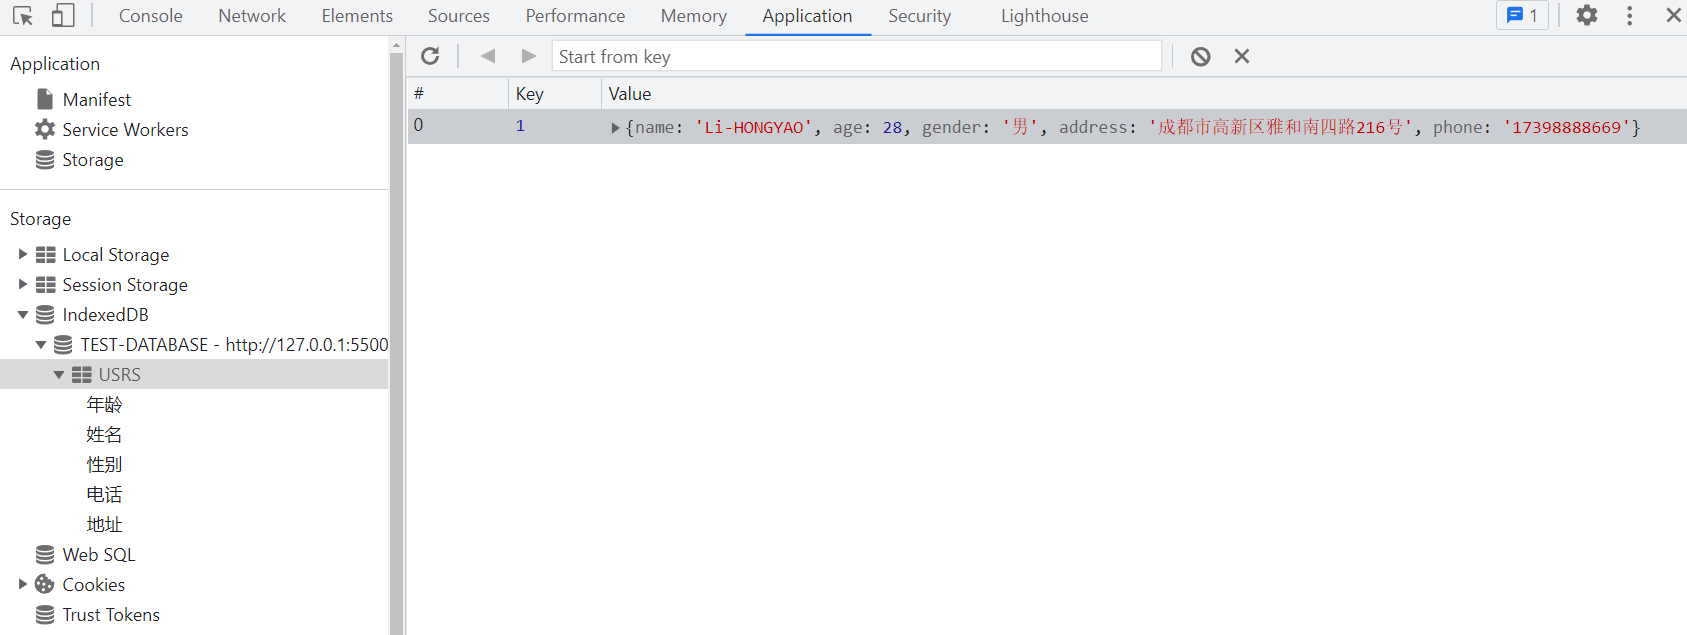
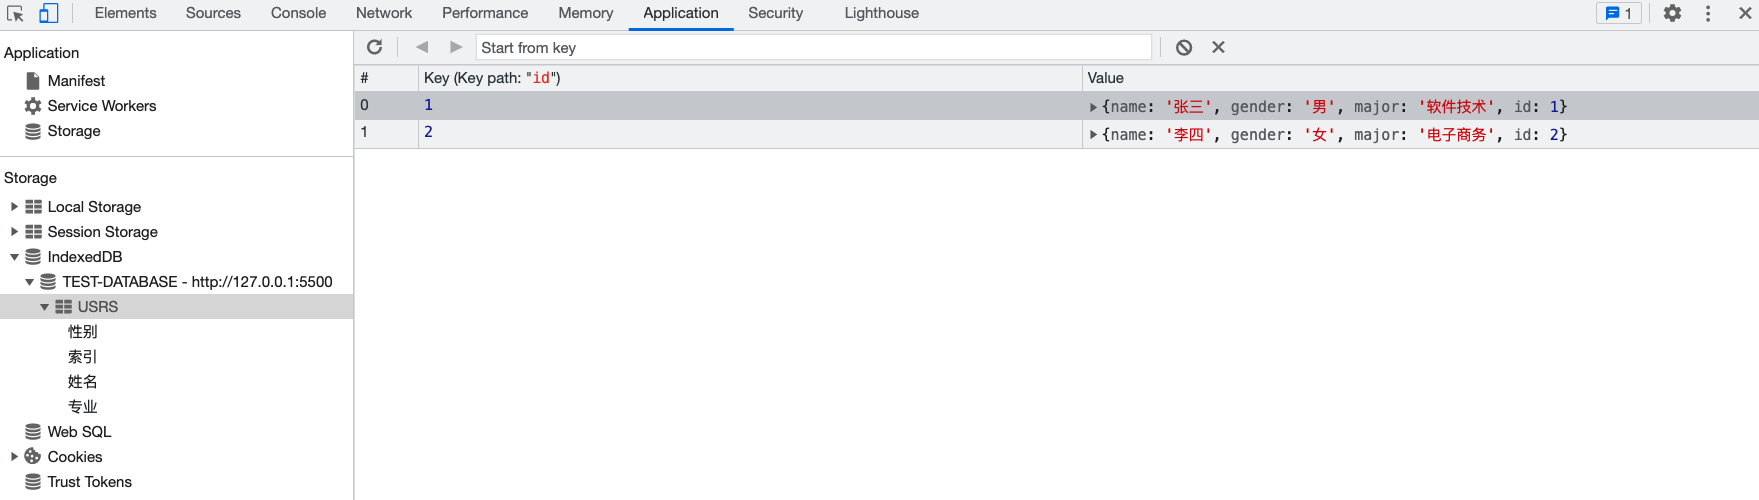
内容更新

diff --git a/示例代码/01.IndexDB/index.js b/示例代码/01.IndexDB/index.js
@@ -1,7 +1,7 @@
 /*
  * @Author: Li-HONGYAO
  * @Date: 2021-04-19 17:00:50
- * @LastEditTime: 2021-12-18 18:11:13
+ * @LastEditTime: 2021-12-18 23:13:36
  * @LastEditors: Lee
  * @Description:
  * @FilePath: \01.IndexDB\index.js
@@ -9,25 +9,41 @@
 
 (async function () {
   // 1. 打开数据库
-  const db = await openDB('TEST-DATABASE');
+  const db = await openDB('TEST-DATABASE', 1);
+  remove();
   // addUsr();
   // getUsr();
   // readAll();
-  update();
+  // update();
+    const request = db
+      .transaction(['USRS'], 'readwrite')
+      .objectStore('USRS')
+      .index('姓名')
+      .get('张三');
+    request.onsuccess = function (e) {
+      var result = e.target.result;
+      console.log(result);
+    };
+
+  function remove() {
+    db.transaction(['USRS'], 'readwrite').objectStore('USRS').delete(2);
+  }
   function update() {
-    const objectStore = db.transaction(['USRS'], 'readwrite').objectStore('USRS');
+    const objectStore = db
+      .transaction(['USRS'], 'readwrite')
+      .objectStore('USRS');
     const request = objectStore.get(1);
     request.onsuccess = (e) => {
       const data = e.target.result;
       data.id = 1;
-      data.phone = '13219038892';
-      const putRequest = objectStore.put({...data});
+      data.major = '网络工程';
+      const putRequest = objectStore.put({ ...data });
       putRequest.onsuccess = (e) => {
         console.log('Put success!');
       };
       putRequest.onerror = (e) => {
         console.log(e);
-      }
+      };
     };
   }
   function readAll() {
@@ -50,7 +66,7 @@
       console.log(request.result);
     };
     request.onerror = (e) => {
-      console.log('Get fail with:', e);
+      console.log(e);
     };
   }
   function addUsr() {
@@ -58,11 +74,9 @@
       .transaction(['USRS'], 'readwrite')
       .objectStore('USRS')
       .add({
-        name: 'Gou-YUMEI',
-        age: 22,
+        name: '李四',
         gender: '女',
-        address: '成都市高新区雅和南四路216号',
-        phone: '152288885771',
+        major: '电子商务',
       });
     request.onsuccess = (e) => {
       console.log('Add success!');

diff --git a/示例代码/01.IndexDB/utils.js b/示例代码/01.IndexDB/utils.js
@@ -1,7 +1,7 @@
 /*
  * @Author: Li-HONGYAO
  * @Date: 2021-04-19 17:15:11
- * @LastEditTime: 2021-12-18 17:53:06
+ * @LastEditTime: 2021-12-18 22:51:45
  * @LastEditors: Lee
  * @Description:
  * @FilePath: \01.IndexDB\utils.js
@@ -38,13 +38,15 @@ function openDB(databaseName, version) {
       if (!db.objectStoreNames.contains('USRS')) {
         // 创建USRS对象仓库/主键为自增整数
         // 如果需要指定值为主键，则可以设置：{keyPath: "键" }
-        let objStore = db.createObjectStore('USRS', { autoIncrement: 'id' });
+        let objStore = db.createObjectStore('USRS', {
+          keyPath: 'id',
+          autoIncrement: 'id',
+        });
         // 创建索引，语法形式：objStore.createIndex(名称, 索引, 配置对象)
+        objStore.createIndex('索引', 'id', { unique: true });
         objStore.createIndex('姓名', 'name', { unique: false });
         objStore.createIndex('性别', 'gender', { unique: false });
-        objStore.createIndex('年龄', 'age', { unique: false });
-        objStore.createIndex('电话', 'phone', { unique: true });
-        objStore.createIndex('地址', 'address', { unique: false });
+        objStore.createIndex('专业', 'major', { unique: false });
       }
     };
   });

diff --git a/第13章 数据存储.md b/第13章 数据存储.md
@@ -91,7 +91,7 @@ IndexedDB 具有以下特点：
 - 指针：`IDBCursor `
 - 主键集合：`IDBKeyRange `
 
-## 3. 操作
+## 3、操作
 
 ### 3.1. 新建数据库
 
@@ -149,33 +149,33 @@ DBOpenRequest.onupgradeneeded = (e) => {
   if (!db.objectStoreNames.contains('USRS')) {
     // 创建USRS对象仓库/主键为自增整数
     // 如果需要指定值为主键，则可以设置：{keyPath: "键" }
-    let objStore = db.createObjectStore('USRS', { autoIncrement: 'id' });
+    let objStore = db.createObjectStore('USRS', {
+      keyPath: 'id',
+      autoIncrement: 'id',
+    });
     // 创建索引，语法形式：objStore.createIndex(名称, 索引, 配置对象)
+    objStore.createIndex('索引', 'id', { unique: true });
     objStore.createIndex('姓名', 'name', { unique: false });
     objStore.createIndex('性别', 'gender', { unique: false });
-    objStore.createIndex('年龄', 'age', { unique: false });
-    objStore.createIndex('电话', 'phone', { unique: true });
-    objStore.createIndex('地址', 'address', { unique: false });
+    objStore.createIndex('专业', 'major', { unique: false });
   }
 };
 ```
 
 ![](./IMGS/indedDB_create_table.png)
 
-### 4.4. 添加记录
+### 4.3. 添加记录
 
 ```javascript
 const request = db
   .transaction(['USRS'], 'readwrite')
   .objectStore('USRS')
   .add({
-    name: 'Li-HONGYAO',
-    age: 28,
-    gender: '男',
-    address: '成都市高新区雅和南四路216号',
-    phone: '17398888669',
+    name: '李四',
+    gender: '女',
+    major: '电子商务',
   });
-request.onsuccess = () => {
+request.onsuccess = (e) => {
   console.log('Add success!');
 };
 request.onerror = (e) => {
@@ -189,21 +189,22 @@ request.onerror = (e) => {
 
 ![](./IMGS/indexDB_add.png)
 
-可以看到，`USRS` 表中已经插入了一条记录。
+可以看到，`USRS` 表中已经插入了2条记录。
 
-### 4.5. 获取记录
+### 4.4. 获取记录
 
 ```javascript
-const request = db.transaction(['USRS']).objectStore('USRS').get(1); // 1为索引
+const request = db.transaction(['USRS']).objectStore('USRS').get(1);
 request.onsuccess = (e) => {
   console.log(request.result);
 };
 request.onerror = (e) => {
-  console.log('Get fail with:', e);
+  console.log(e);
 };
+// {name: '张三', gender: '男', major: '软件技术', id: 1}
 ```
 
-### 4.6. 遍历记录
+### 4.5. 遍历记录
 
 遍历数据表格的所有记录，要使用指针对象 `IDBCursor`。
 
@@ -220,9 +221,66 @@ objectStore.openCursor().onsuccess = function (event) {
     console.log('No more entries!');
   }
 };
+
+0: {name: '张三', gender: '男', major: '软件技术', id: 1}
+1: {name: '李四', gender: '女', major: '电子商务', id: 2}
+length: 2
 ```
 
-### 4.7. 更新记录
+### 4.6. 更新记录
 
+```javascript
+// 获取对象仓库
+const objectStore = db
+  .transaction(['USRS'], 'readwrite')
+  .objectStore('USRS');
+// 查询要修改的数据
+const request = objectStore.get(1);
+request.onsuccess = (e) => {
+  const data = e.target.result;
+  data.id = 1;
+  data.major = '网络工程';
+  // 执行更新
+  const putRequest = objectStore.put({ ...data });
+  putRequest.onsuccess = (e) => {
+    console.log('Put success!');
+  };
+  putRequest.onerror = (e) => {
+    console.log(e);
+  };
+};
+```
 
+![](./IMGS/indexDB_update.png)
 
+可以看见， `id` 为 `1` 的那条记录，`major` 字段成功修改成 “网络工程”。
+
+### 3.7. 删除记录
+
+```shell
+db.transaction(['USRS'], 'readwrite').objectStore('USRS').delete(2);
+```
+
+删除 `id` 值为 `2` 的那条数据。
+
+### 3.8. 使用索引
+
+索引的意义在于，可以让你搜索任意字段，也就是说从任意字段拿到数据记录。如果不建立索引，默认只能搜索主键（即从主键取值）。
+
+接下来，我们通过索引 `姓名` 查找数据：
+
+```javascript
+const request = db
+  .transaction(['USRS'], 'readwrite')
+  .objectStore('USRS')
+  .index('姓名')
+  .get('张三');
+request.onsuccess = function (e) {
+  var result = e.target.result;
+  console.log(result);
+};
+
+{name: '张三', gender: '男', major: '网络工程', id: 1}
+```
+
+> 提示：由于在开始我们创建索引时，名称使用的是中文，所以这里根据索引查找数据时，也应该填写中文。实际开发中，还是建议使用英文作为索引名称。
